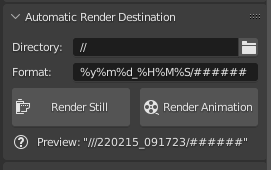
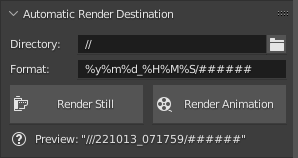
update render-button.py
This commit makes the rendering run without blocking the UI and also removes the feature of rendering in a separate instance/terminal because it was a very inefficient, albeit at times useful workflow.

diff --git a/render-button.py b/render-button.py
@@ -12,36 +12,19 @@ bl_info = {
 import bpy
 import datetime
 import platform
-import subprocess
 
 class RenderButtonOperator(bpy.types.Operator):
-    """Basically a bpy.ops.render.render proxy"""
+    """Basically a bpy.ops.render.render proxy in a way"""
     bl_idname = 'render.render_autoname'
     bl_label = 'Render with given settings.'
     
-    terminal: bpy.props.BoolProperty(name='External', default=False)
     new_path: bpy.props.StringProperty(name='Render output to be set before render', default='')
     animation: bpy.props.BoolProperty(name='Render as animation', default=False)
     
     def execute(self, context):
-        if self.terminal is False:
-            bpy.context.scene.render.filepath = self.new_path
-            bpy.context.scene.render.use_file_extension = True
-            return bpy.ops.render.render(animation=self.animation, use_viewport=True, write_still=True)
-        else:
-            general_cmd = [
-                *context.scene.render_button_settings.determine_terminal(),
-                bpy.app.binary_path,
-                '-b',
-                bpy.data.filepath,
-                '-o',
-                self.new_path
-            ]
-            if self.animation:
-                subprocess.Popen([*general_cmd, '-a'])
-            else:
-                subprocess.Popen([*general_cmd, '-f', str(bpy.context.scene.frame_current)])
-            return {'FINISHED'}
+        context.scene.render.filepath = self.new_path
+        context.scene.render.use_file_extension = True
+        return bpy.ops.render.render('INVOKE_DEFAULT', animation=self.animation, use_viewport=True, write_still=True)
 
 
 class RenderButtonSettings(bpy.types.PropertyGroup):
@@ -51,23 +34,6 @@ class RenderButtonSettings(bpy.types.PropertyGroup):
                                    subtype="DIR_PATH")
     format: bpy.props.StringProperty(name="Format",
                                      default="%y%m%d_%H%M%S/######")
-    terminal: bpy.props.BoolProperty(name='Render on separate instance',
-                                     default=False,
-                                     description='Run render job in Terminal')
-    linux_terminal: bpy.props.StringProperty(name='Linux Terminal',
-                                             default='urxvt',
-                                             description='Path to a Linux terminal')
-
-    def determine_terminal(self) -> list[str]:
-        """Returns the path to the terminal emulator that is available"""
-        platform_name = platform.system()
-        if platform_name == 'Linux':
-            return [str(self.linux_terminal), '-e']
-        elif platform_name == 'Windows':
-            return ['cmd.exe', '/c', 'start']
-        else:
-            raise Exception(f'Cannot find terminal for "{platform_name}" platform.')
-
   
     def generate_name(self) -> str:
         return self.path + '/' + datetime.datetime.now().strftime(self.format)
@@ -90,29 +56,18 @@ class RenderButtonPanel(bpy.types.Panel):
         
         split = layout.split()
         split.scale_y = 2.0
+
         col = split.column()
         render_still_btn = col.operator('render.render_autoname', text='Render Still', icon='RENDER_STILL')
-        render_still_btn.terminal = scene.render_button_settings.terminal
         render_still_btn.new_path = new_path
         render_still_btn.animation = False
+
         col = split.column()
         render_anim_btn = col.operator('render.render_autoname', text='Render Animation', icon='RENDER_ANIMATION')
-        render_anim_btn.terminal = scene.render_button_settings.terminal
         render_anim_btn.new_path = new_path
         render_anim_btn.animation = True
-        
-        platform_name = platform.system()
-        if platform_name in ('Windows', 'Linux'):
-            layout.prop(scene.render_button_settings, 'terminal')
-            if scene.render_button_settings.terminal:
-                box = layout.box()
-                box.label(text='This will use the currently opened project and its last saved instance!', icon='ERROR')
-                box.label(text='This is purely experimental.', icon='ERROR')
-                if platform.system() == 'Linux':
-                    box.prop(scene.render_button_settings, 'linux_terminal')
 
         layout.label(text='Preview: "' + new_path + '"', icon='QUESTION')
-        layout.label(text='The UI will be locked and can be only cancelled using SIGINT.', icon='ERROR')
 
 
 def register():

diff --git a/readme.md b/readme.md
@@ -85,8 +85,6 @@ In addition to removal of incompatible bones, it merges vertex groups of deleted
 
 Adds a new panel into Output settings with two buttons for rendering stills and animations, which will render into a generated path based on the format and directory.
 
-*Note: Render still differs from normal Blender's Render Still, as this will render into a file.*
-
 ---
 
 ## `render-webhook.py`
